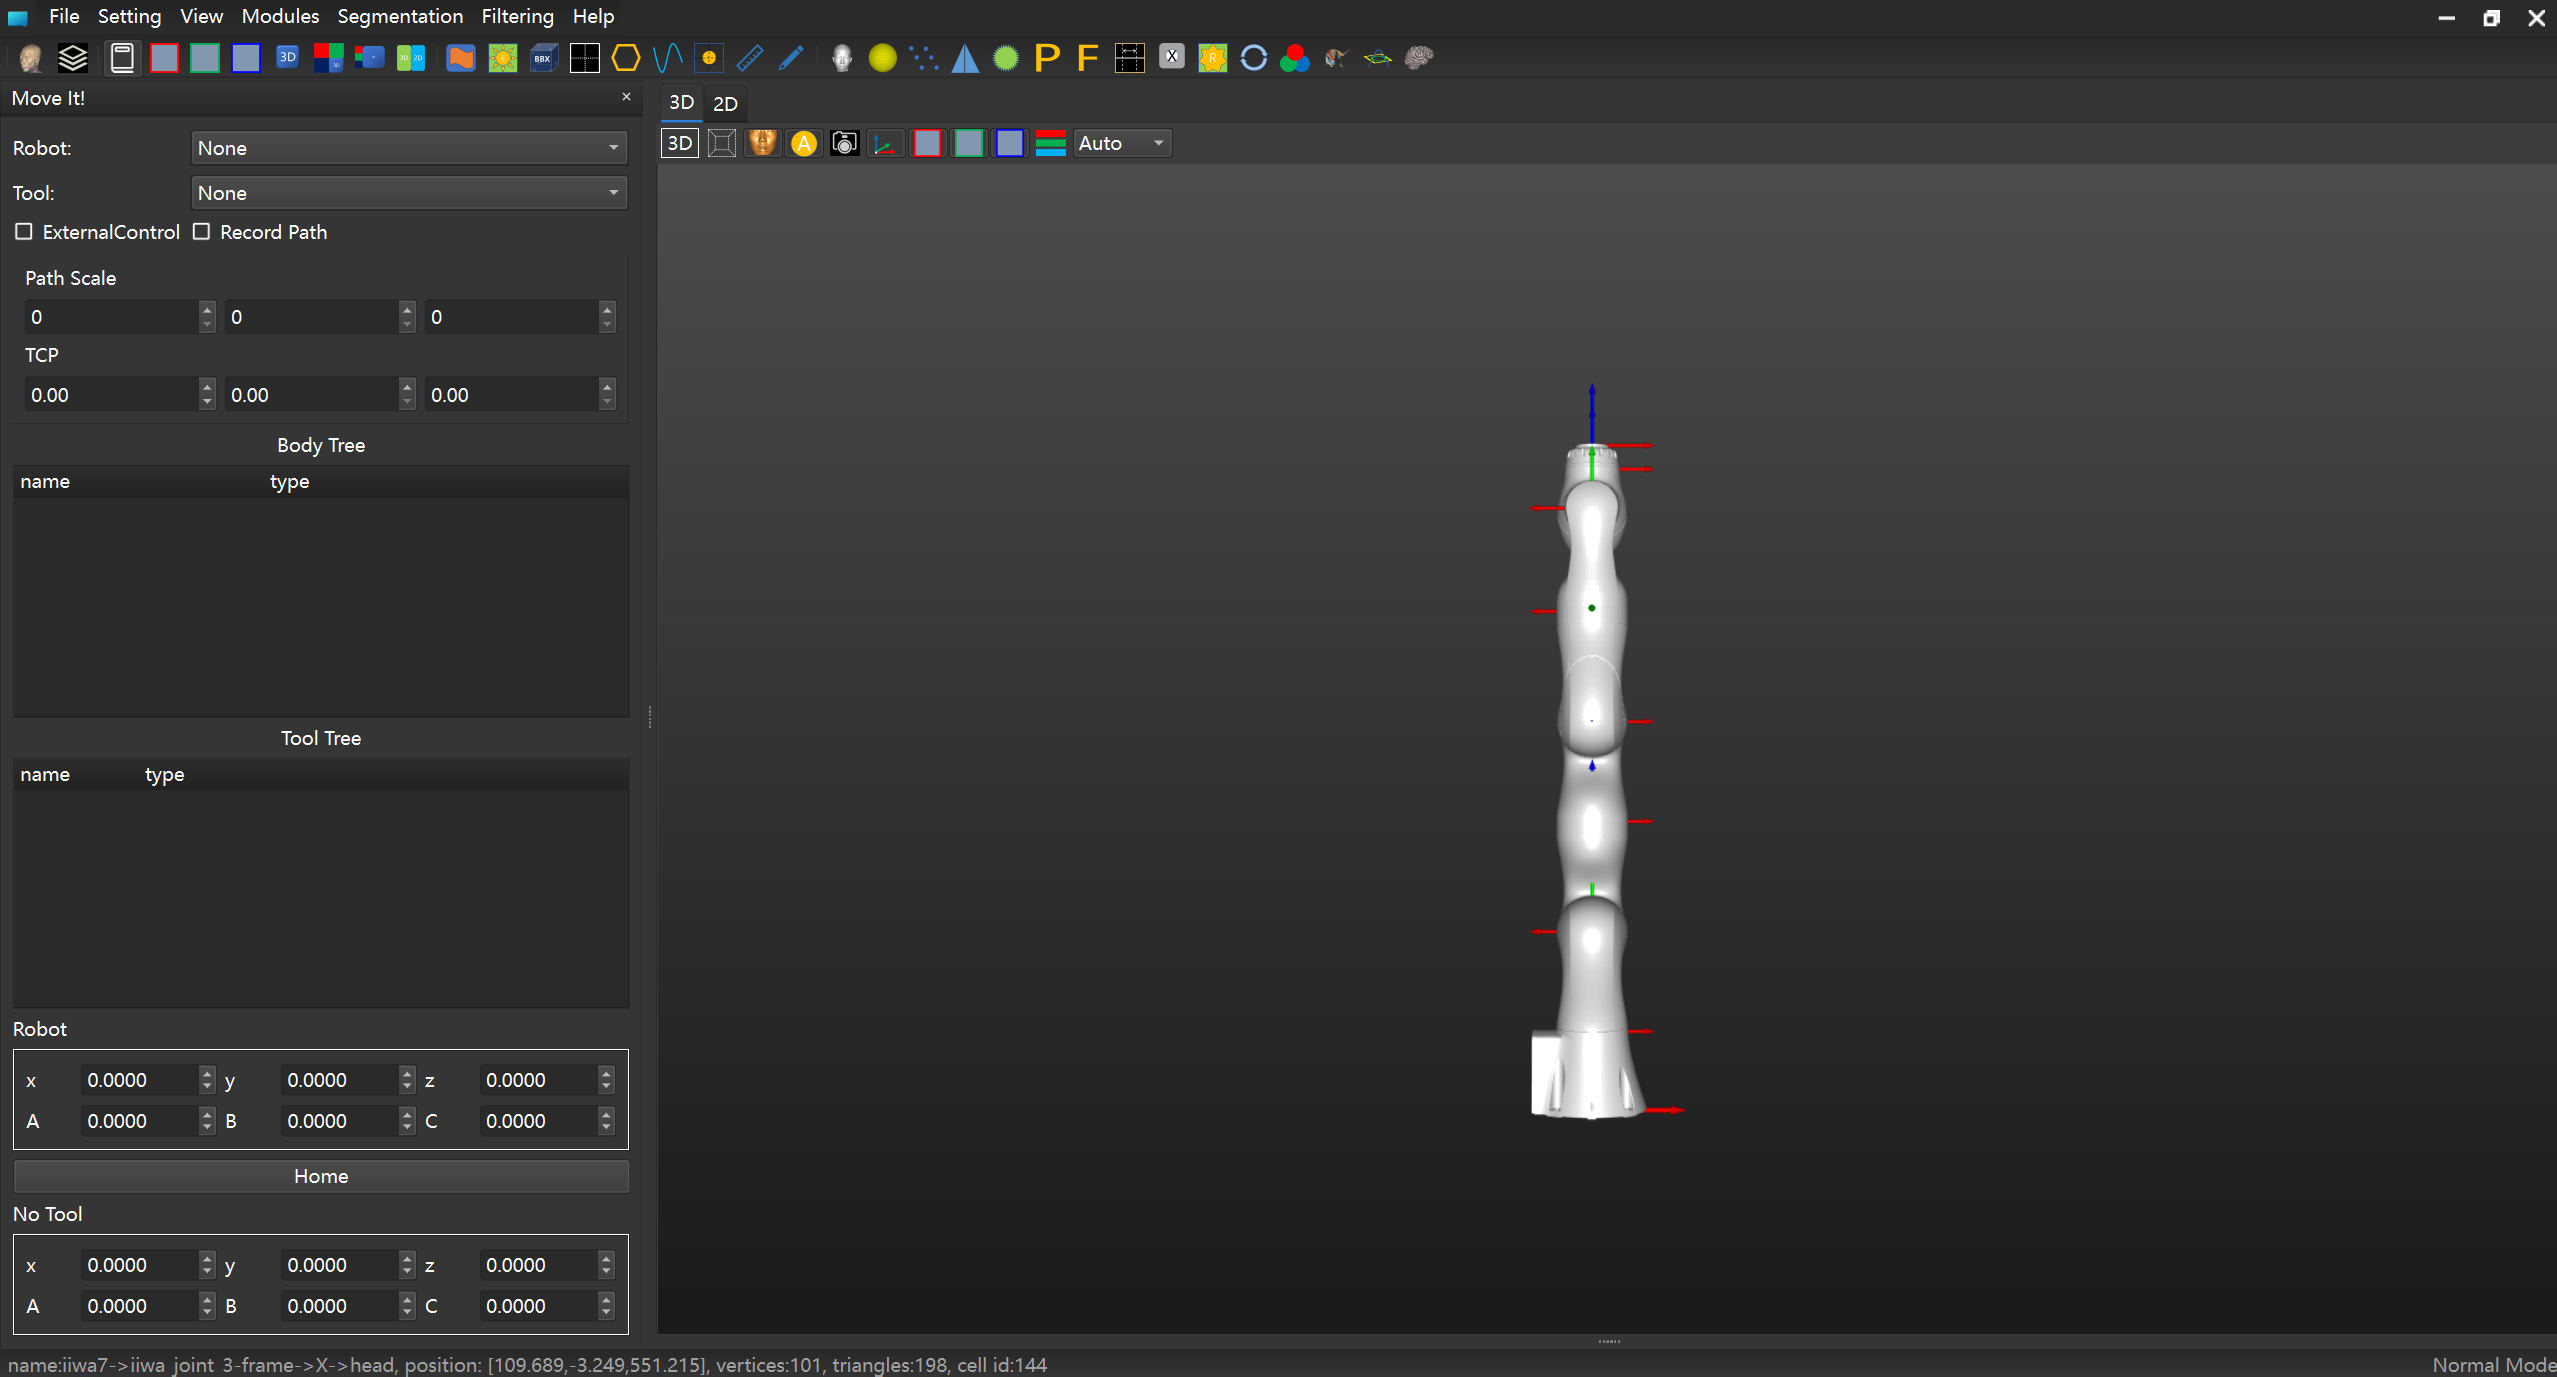
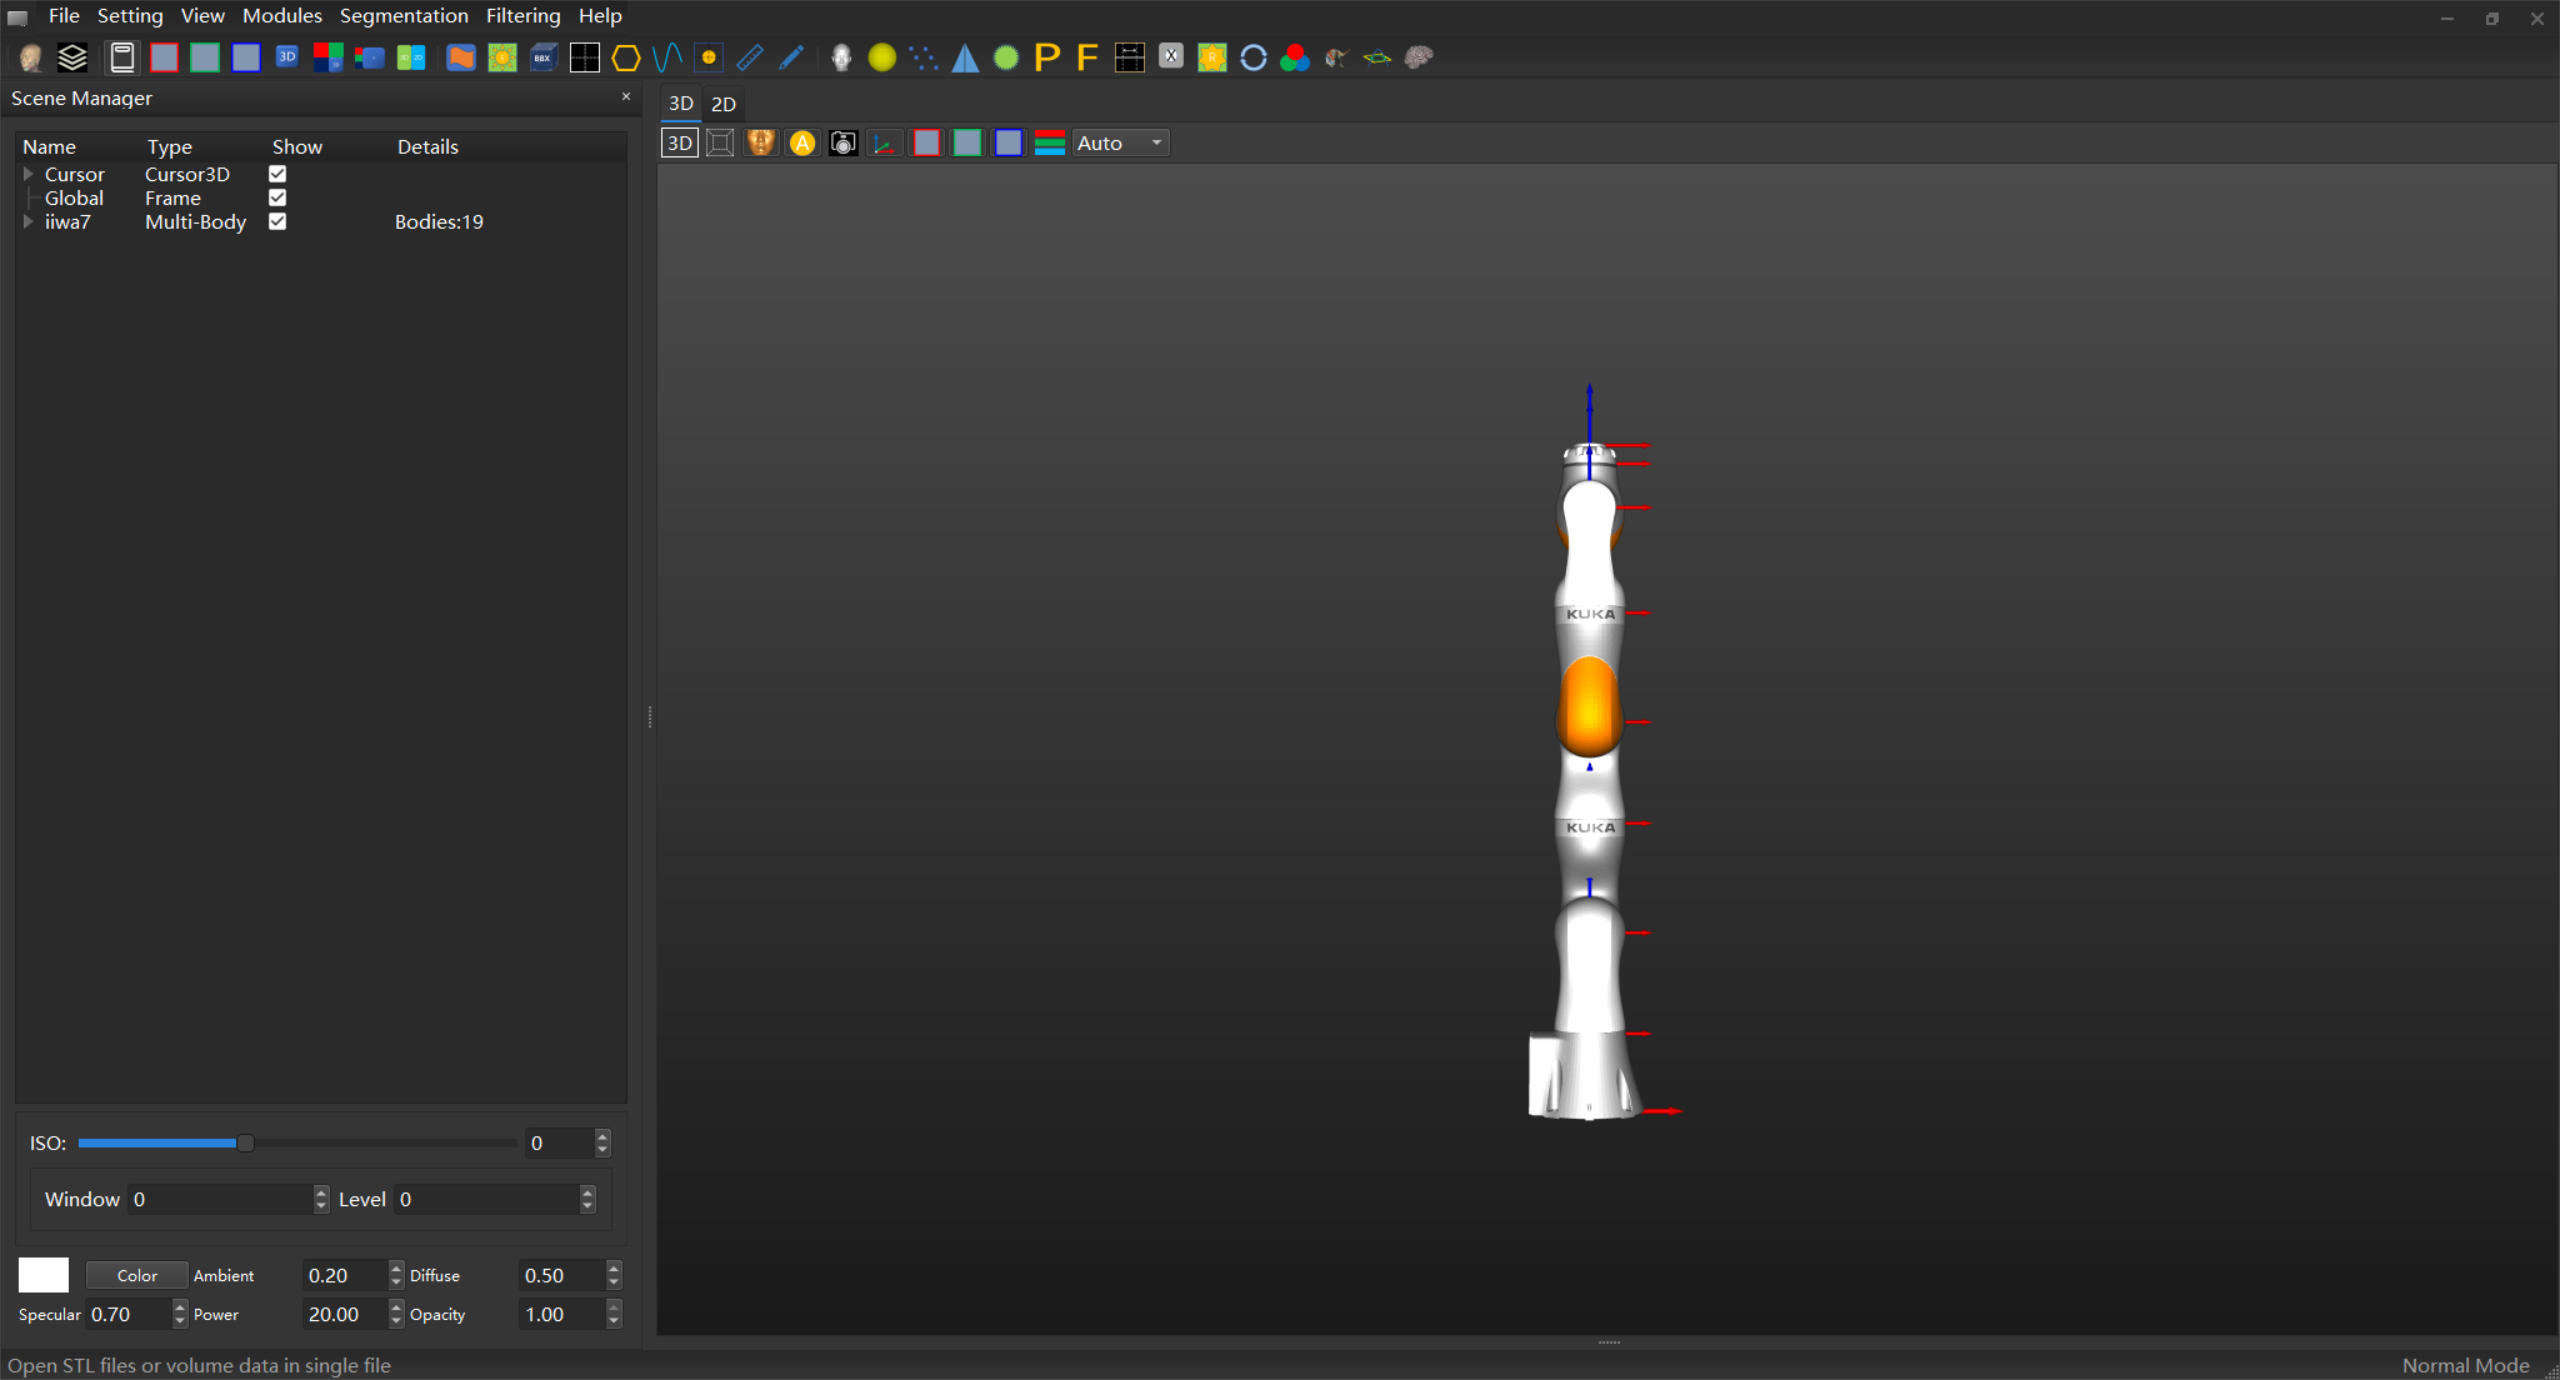
update ReadME

diff --git a/ReadME.md b/ReadME.md
@@ -27,7 +27,7 @@ git clone https://github.com/JunchenWang/robotics.git
 ### 测试
 
 1. 启动仿真环境，选择菜单栏“Modules”，选中“Move It！”。![img](assets/测试1.png)
-2. 选择菜单栏“Flies”，选中“Open”，选择“urdf\iiwa7”路径下的“iiwa7.urdf”文件。![img](assets/测试2.png)
+2. 选择菜单栏“Flies”，选中“Open”，选择“urdf\lbr\_description\urdf”路径下的“iiwa7.urdf”文件。![img](assets/测试2.png)
 3. 左侧面板“Robot”下拉菜单中选择“iiwa7”，勾选“ExternalControl”（开启与matlab联合仿真）和“Record Path”（记录末端路径，再次点击可消除路径）。![img](assets/测试3.png)
 4. 打开MATLAB，将项目文件夹及其子文件夹添加到系统路径。![img](assets/测试4.png)
 5. 在MATLAB中，运行velocity_control文件夹中的“simulate\_task\_control.m”文件，可以看到如下仿真效果。![img](assets/测试5.png)
